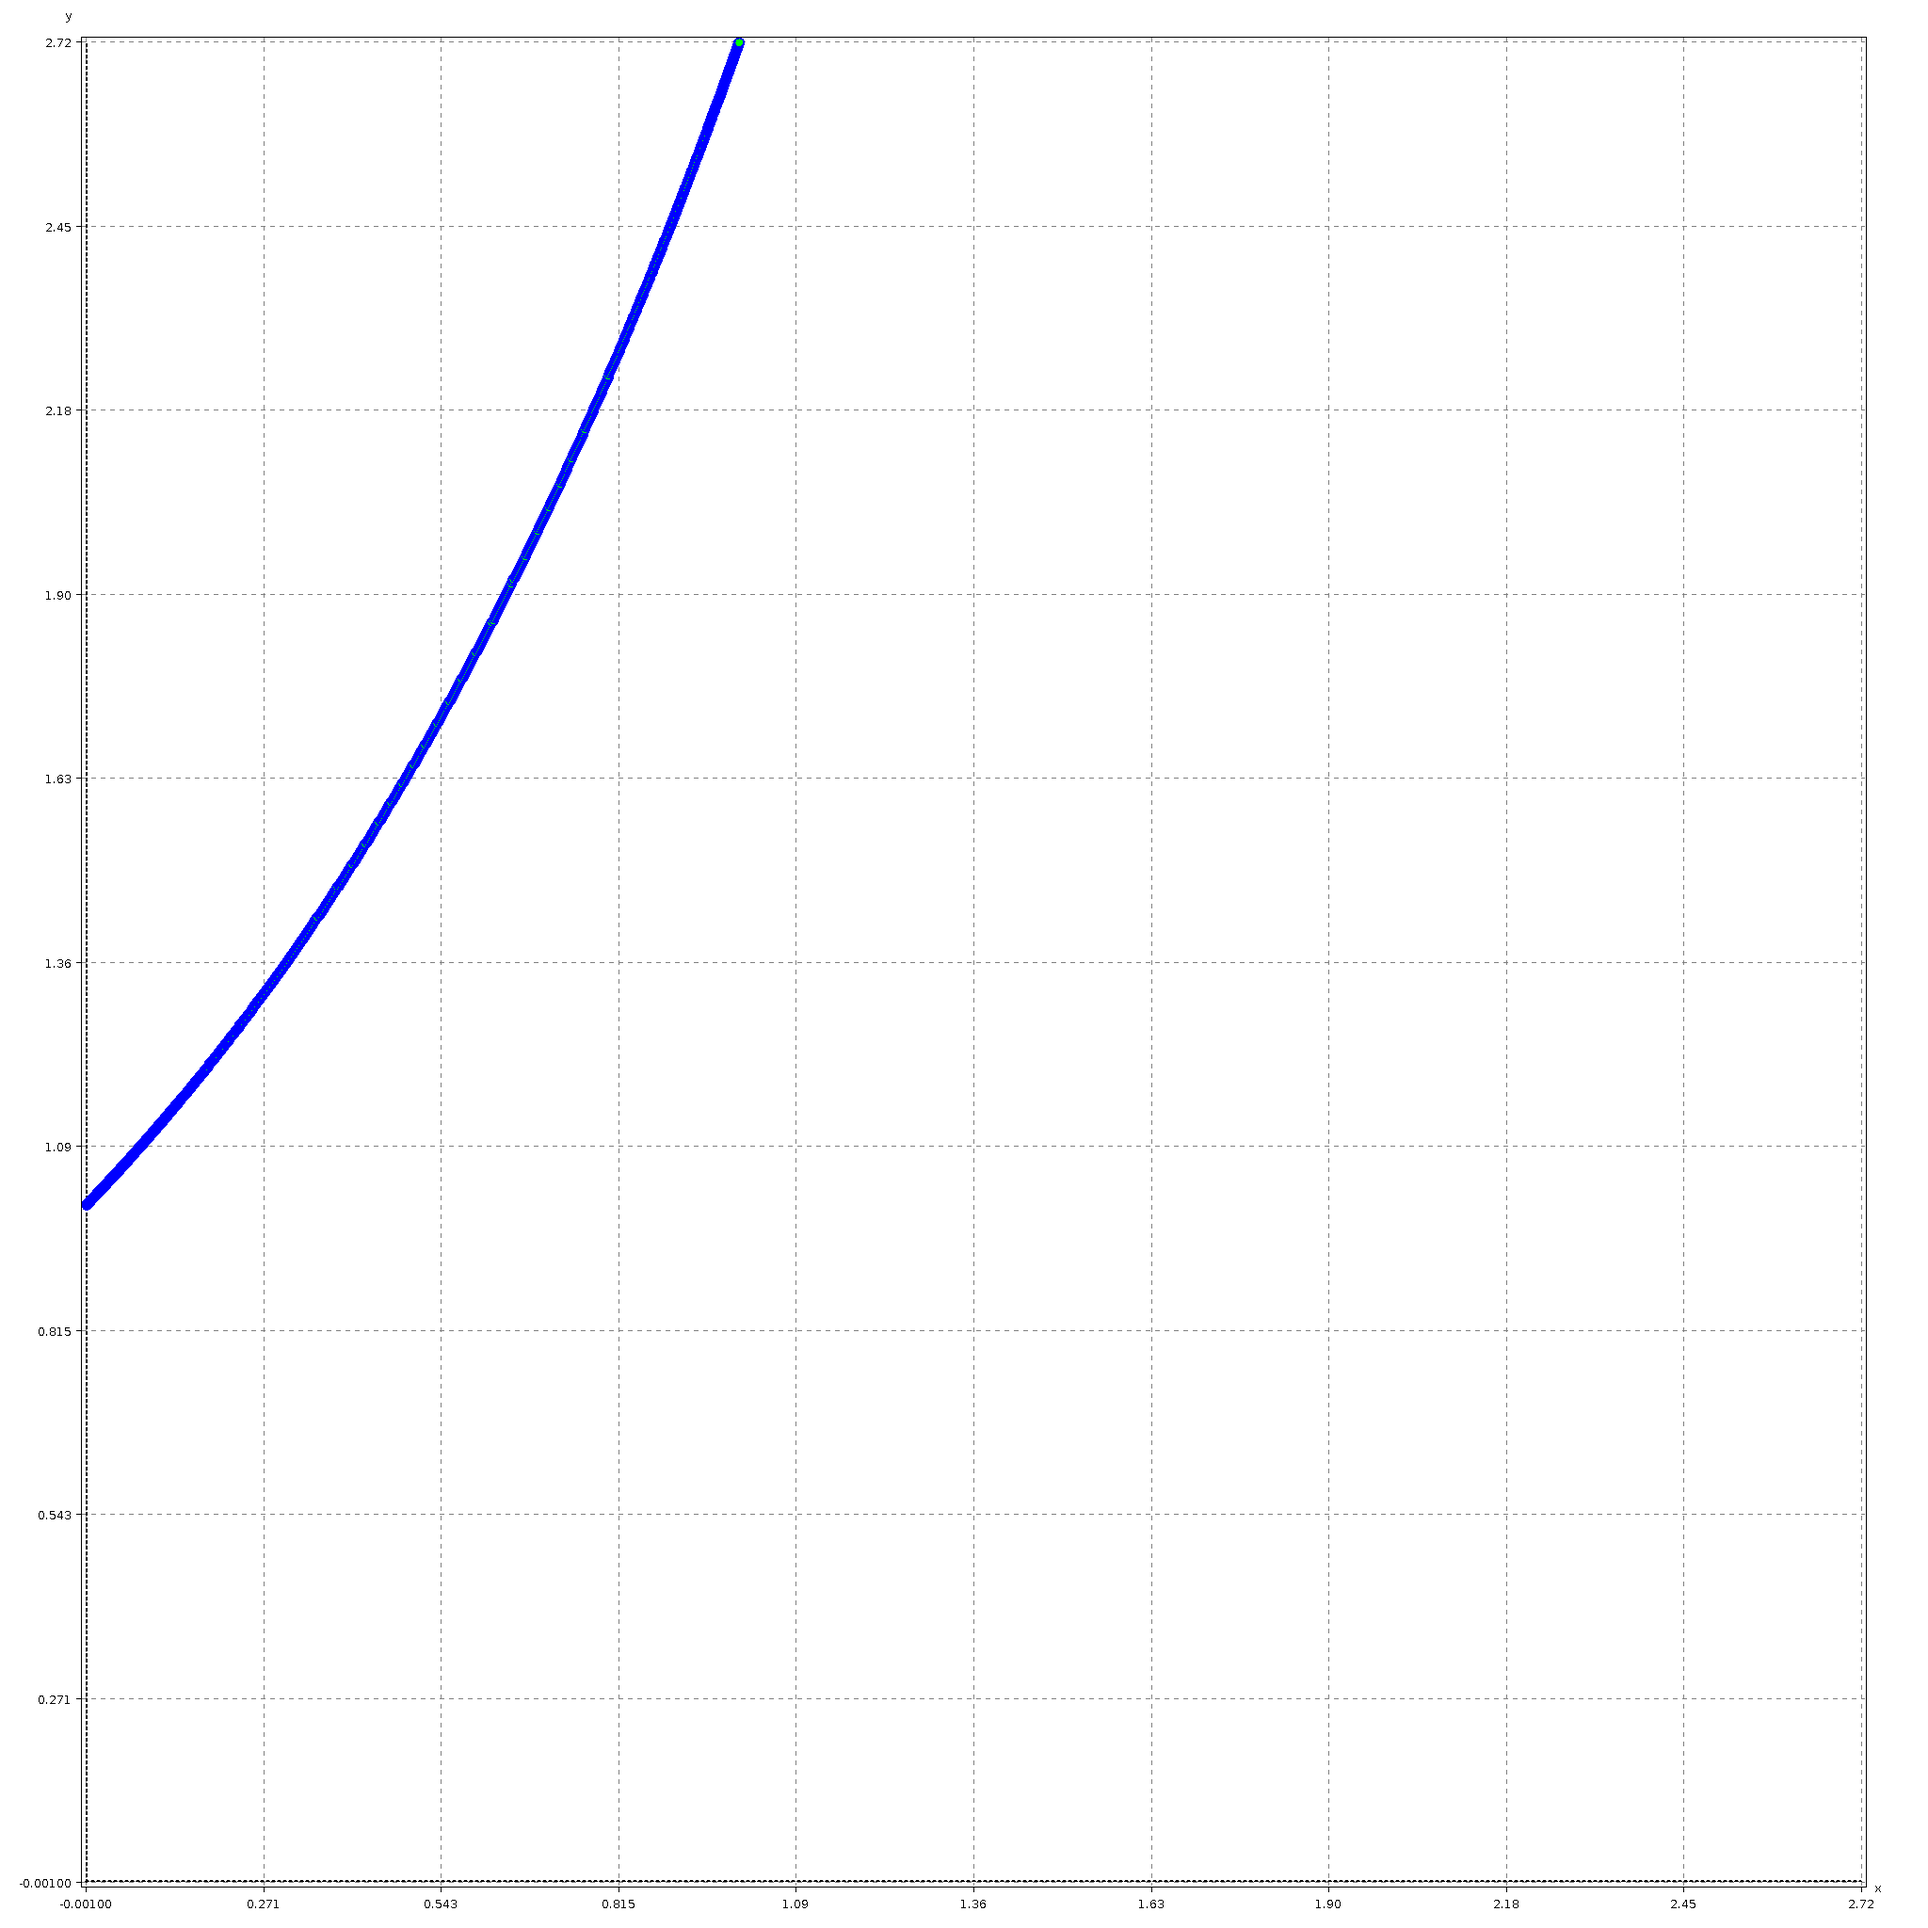
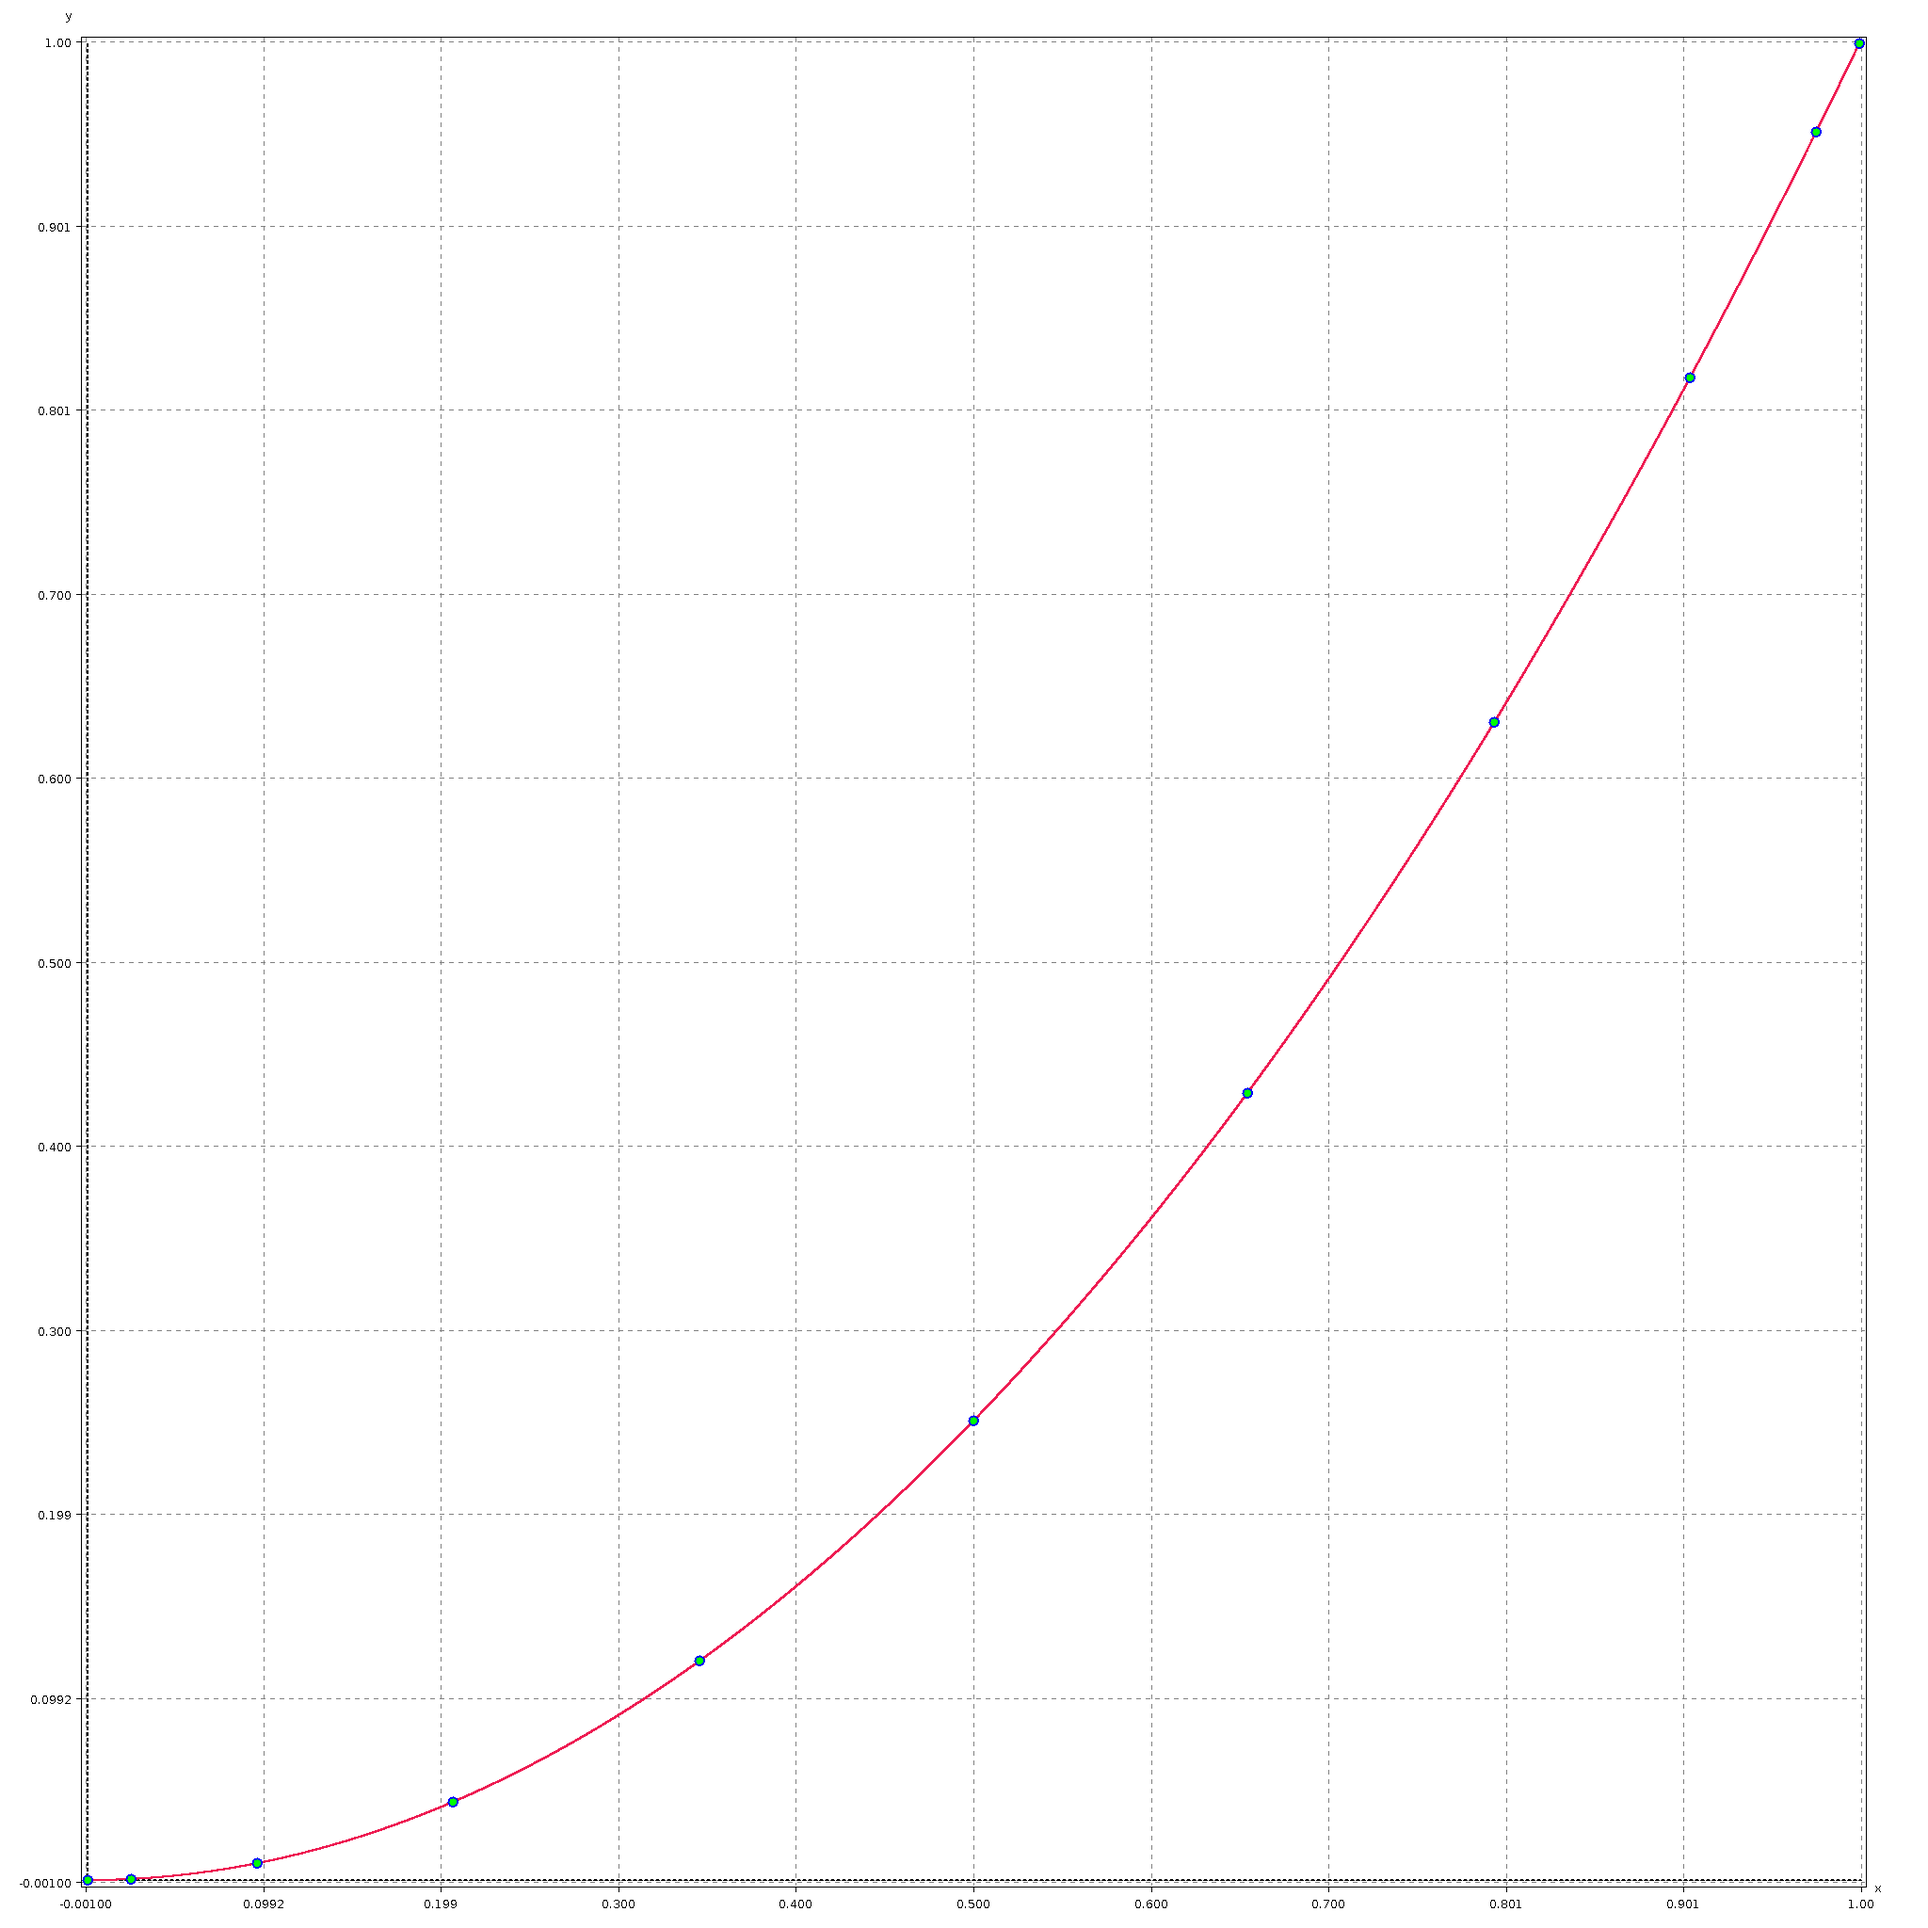
Yeah don't know

diff --git a/task42/src/main/java/mathe3/Task42.java b/task42/src/main/java/mathe3/Task42.java
@@ -14,46 +14,50 @@ public class Task42 {
     public static final double START = 0;
     public static final double END = 1;
 
-    public static final int N = 1000;
-    public static final DoubleUnaryOperator fx = x -> Math.exp(x);
+    public static final int N = 10; // degree
+    public static final DoubleUnaryOperator fx = x -> x * x;
 
     public static void main(String[] args) {
-        List<Double> xs = generateXWithConstantDistance(N);
-        List<Double> ys = generateY(xs, fx);
+        System.out.println(N);
+        List<Double> xs = xWithConstantDistance(N);
+        List<Double> ys = yFromFunction(xs, fx);
         integrate(xs, ys, 0);
 
-        List<Double> xs2 = generateX(N, i -> (1 - Math.cos(i * Math.PI / N)) / 2);
-        List<Double> ys2 = generateY(xs2, fx);
+        List<Double> xs2 = xFromFunction(N, i -> (1 - Math.cos(i * Math.PI / N)) / 2).stream().sorted().collect(Collectors.toList());
+        List<Double> ys2 = yFromFunction(xs2, fx);
         integrate(xs2, ys2, 1);
     }
 
 
     public static void integrate(List<Double> xs, List<Double> ys, int s){
+        List<Point> pts = IntStream.range(0, xs.size()).mapToObj(i -> new Point(xs.get(i), ys.get(i))).collect(Collectors.toList());
         double integral = new IntegralCalculator(xs, ys).integrate(START, END);
         System.out.println(integral);
-        List<Point> pts = IntStream.range(0, xs.size()).mapToObj(i -> new Point(xs.get(i), ys.get(i))).collect(Collectors.toList());
-        new Plotter(pts, 50000, 0.001).points(pts).save(s);
 
+        new Plotter(pts, 50000, 0.001)
+                .function(new LagrangeCalculator(xs, ys).lagrangePolynomial())
+                .points(pts)
+                .save(s);
     }
 
-    public static List<Double> generateXWithConstantDistance(int n){
+    public static List<Double> xWithConstantDistance(int n){
         double step = (END - START) / n;
         return Stream.iterate(START, x -> Math.min(END, x + step)).limit(n + 1).collect(Collectors.toList());
     }
 
-    public static List<Double> generateXFromValues(double... xs){
+    public static List<Double> xFromValues(double... xs){
         return Arrays.stream(xs).boxed().collect(Collectors.toList());
     }
 
-    public static List<Double> generateX(int n, IntToDoubleFunction nToXFunction){
+    public static List<Double> xFromFunction(int n, IntToDoubleFunction nToXFunction){
         return IntStream.range(0, n+1).mapToDouble(nToXFunction).boxed().collect(Collectors.toList());
     }
 
-    public static List<Double> generateYFromValues(double...ys){
+    public static List<Double> yFromValues(double...ys){
         return Arrays.stream(ys).boxed().collect(Collectors.toList());
     }
 
-    public static List<Double> generateY(List<Double> xs, DoubleUnaryOperator function){
+    public static List<Double> yFromFunction(List<Double> xs, DoubleUnaryOperator function){
         return xs.stream().map(function::applyAsDouble).collect(Collectors.toList());
     }
 

diff --git a/task42/src/main/java/mathe3/IntegralCalculator.java b/task42/src/main/java/mathe3/IntegralCalculator.java
@@ -2,6 +2,8 @@ package mathe3;
 
 import java.util.List;
 import java.util.function.DoubleUnaryOperator;
+import java.util.stream.Collectors;
+import java.util.stream.IntStream;
 
 public class IntegralCalculator {
 
@@ -18,21 +20,24 @@ public class IntegralCalculator {
         nPoints = xs.size();
         n = nPoints - 1;
         lagrangeCalculator = new LagrangeCalculator(xs, ys);
+        System.out.println(IntStream.range(0, xs.size())
+                .mapToObj(i -> String.format("(%f, %f)", xs.get(i), ys.get(i)))
+                .collect(Collectors.joining(", ", "[", "]")));
     }
 
-    // TODO: Maybe to main?
     public double integrate(double from, double to) {
         double sum = 0;
-        for (int k = 0; k < nPoints-1; k++) {
-            sum += y(k) * g(k, from, to);
+        for (int k = 0; k < nPoints; k++) {
+            DoubleUnaryOperator Lk = lagrangeCalculator.lagrange(k);
+            double g = integrateByTrapezoidalRule(Lk, from, to);
+            sum += y(k) * g;
+            System.out.printf("g%d=%f", k, g);
+            System.out.print("           ");
+            System.out.printf("y%d=%f%n", k, y(k));
         }
         return sum;
     }
 
-
-    private double g(int k, double from, double to){
-        return integrateByTrapezoidalRule(lagrangeCalculator.lagrange(k), from, to);
-    }
 
     public double integrateByTrapezoidalRule(DoubleUnaryOperator fx, double from, double to){
         double sum = 0;

diff --git a/task42/src/main/java/mathe3/LagrangeCalculator.java b/task42/src/main/java/mathe3/LagrangeCalculator.java
@@ -39,7 +39,7 @@ public class LagrangeCalculator {
         };
     }
 
-    public DoubleUnaryOperator lagrange1(int k){ // not working somehow
+    public DoubleUnaryOperator lagrange1(int k){ // not working properly somehow
         return x -> {
             double upper = 1;
             double lower = 1;
@@ -54,7 +54,7 @@ public class LagrangeCalculator {
         };
     }
 
-    public DoubleUnaryOperator lagrange2(int k){ // too long
+    public DoubleUnaryOperator lagrange2(int k){ // too slow
         return x -> {
             BigDecimal lower = BigDecimal.ONE;
             BigDecimal upper = BigDecimal.ONE;
